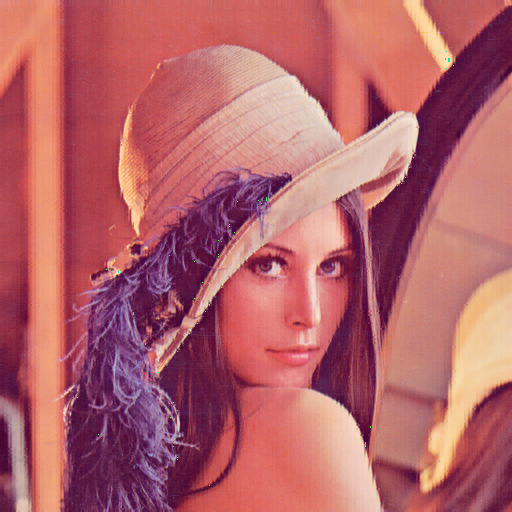
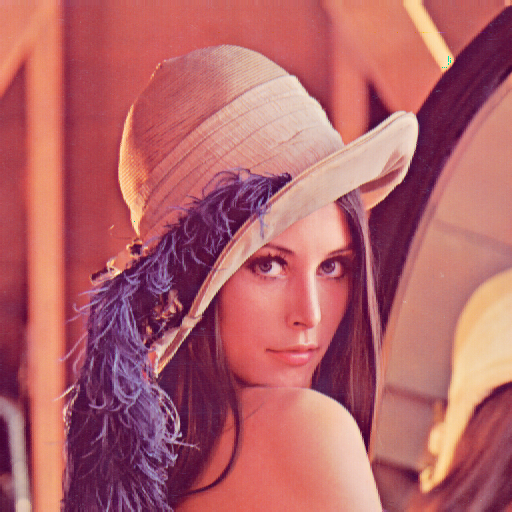
refactor: removed encription from embedding function

diff --git a/prog.py b/prog.py
@@ -5,14 +5,6 @@ from show_image import show_image
 from arnold_transform import arnold_transform
 from write_image import write_image
 
-def bitstring_to_bytes(s):
-    v = int(s, 2)
-    b = bytearray()
-    while v:
-        b.append(v & 0xff)
-        v >>= 8
-    return bytes(b[::-1])
-
 def transform_image_to_bits(img):
   array = img.flatten()
   bytes = array.tobytes()
@@ -87,33 +79,26 @@ def unembed_binary(img, size, pixel_block_size, bit_array_size):
 
 
 def perform_watermark_embedding(img,img_size,logo,logo_size,pixel_block_size):
-  # revisar periodo da transformação de arnold pelo tamanho da imagem
-  enciter = int(logo_size/2) # qualquer numero entre 0 e o periodo
-  deciter = (int(logo_size/16)) * 12 - enciter # o periodo menos o enciter
-  scrambled_logo = arnold_transform(logo, enciter)
 
   # transforma a imagem em uma sequencia de bits
-  logo_bit_array = transform_image_to_bits(scrambled_logo)
+  logo_bit_array = transform_image_to_bits(logo)
 
   # da o embed na imagem original com a logomarca
-  embedded_image = embed_binary(img,img_size,pixel_block_size,logo_bit_array)
+  embedded_image = embed_binary(img, img_size, pixel_block_size, logo_bit_array)
 
   # remove a sequencia de bits da logomarca
-  new_bit_array = unembed_binary(embedded_image,img_size,pixel_block_size,len(logo_bit_array))
+  new_bit_array = unembed_binary(embedded_image, img_size, pixel_block_size, len(logo_bit_array))
 
   # transforma a sequencia de bits em imagem
   new_scrambled_logo = transform_bits_to_image(new_bit_array, logo_size)
 
-  #unscramble_logo
-  unscrambled_logo = arnold_transform(new_scrambled_logo, deciter)
-
-  return (embedded_image,unscrambled_logo)
+  return (embedded_image,new_scrambled_logo)
 
 
 def main():
   img_size = 512
-  logo_size = 64
-  pixel_block_size = 2
+  logo_size = 128
+  pixel_block_size = 1
   img = cv.imread('assets/lena.tif',cv.IMREAD_COLOR)
   img = cv.resize(img,(img_size,img_size),interpolation = cv.INTER_AREA)
 
@@ -123,12 +108,24 @@ def main():
   img_b,img_g,img_r = cv.split(img)
   logo_b,logo_g,logo_r = cv.split(logo)
 
-  (embedded_image_r,unscrambled_logo_r) = perform_watermark_embedding(img_r,img_size,logo_r,logo_size,pixel_block_size)
-  (embedded_image_g,unscrambled_logo_g) = perform_watermark_embedding(img_g,img_size,logo_g,logo_size,pixel_block_size)
-  (embedded_image_b,unscrambled_logo_b) = perform_watermark_embedding(img_b,img_size,logo_b,logo_size,pixel_block_size)
+  # revisar periodo da transformação de arnold pelo tamanho da imagem
+  enciter = int(logo_size/2) # qualquer numero entre 0 e o periodo
+  deciter = (int(logo_size/16)) * 12 - enciter # o periodo menos o enciter
+  scrambled_logo_r = arnold_transform(logo_r, enciter)
+  scrambled_logo_g = arnold_transform(logo_g, enciter)
+  scrambled_logo_b = arnold_transform(logo_b, enciter)
 
-  embedded_image = cv.merge((embedded_image_b,embedded_image_g,embedded_image_r))
-  unscrambled_logo = cv.merge((unscrambled_logo_b,unscrambled_logo_g,unscrambled_logo_r))
+  (embedded_image_r, scrambled_logo_r) = perform_watermark_embedding(img_r, img_size, scrambled_logo_r, logo_size, pixel_block_size)
+  (embedded_image_g, scrambled_logo_g) = perform_watermark_embedding(img_g, img_size, scrambled_logo_g, logo_size, pixel_block_size)
+  (embedded_image_b, scrambled_logo_b) = perform_watermark_embedding(img_b, img_size, scrambled_logo_b, logo_size, pixel_block_size)
+
+  #unscramble_logo
+  unscrambled_logo_r = arnold_transform(scrambled_logo_r, deciter)
+  unscrambled_logo_g = arnold_transform(scrambled_logo_g, deciter)
+  unscrambled_logo_b = arnold_transform(scrambled_logo_b, deciter)
+
+  embedded_image = cv.merge((embedded_image_b, embedded_image_g, embedded_image_r))
+  unscrambled_logo = cv.merge((unscrambled_logo_b, unscrambled_logo_g, unscrambled_logo_r))
 
   write_image('results/',[embedded_image, unscrambled_logo],'png')
   show_image([img, logo, embedded_image, unscrambled_logo])
